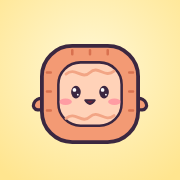
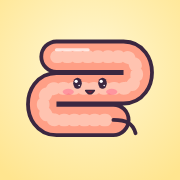
腸のキャラを、ぐねぐね曲がった管の形に描き直す
Claude-Session: https://claude.ai/code/session_015AQ5PSpXJyMFnwsZRYtWDB

Changed region(s): [[0.1389, 0.1944, 0.8611, 0.8056]]

diff --git a/tools/organ-icons.js b/tools/organ-icons.js
@@ -50,13 +50,14 @@ const ICONS = {
     `<path d="M172 150 C168 230 150 300 190 365 C232 432 352 440 398 368 C436 306 410 222 348 220 C298 218 282 255 260 226 C240 200 246 160 222 150 Z" fill="#ffc08c" stroke="${O}" stroke-width="${SW}" stroke-linejoin="round"/>` +
     `<path d="M196 200 C192 240 186 280 200 320" fill="none" stroke="#fff" stroke-width="12" stroke-linecap="round" opacity=".6"/>` +
     face(296, 320, 0.95) },
-  h: { name: "ちょう", bg: ["#fff8d6", "#ffe58f"], body: () =>
-    arm(98, 300, -30, "#f39a74") + arm(414, 300, 30, "#f39a74") +
-    `<rect x="104" y="116" width="304" height="304" rx="96" fill="#f39a74" stroke="${O}" stroke-width="${SW}"/>` +
-    `<g fill="none" stroke="#d9714f" stroke-width="8" stroke-linecap="round"><path d="M120 200 h12 M120 260 h12 M120 320 h12 M380 200 h12 M380 260 h12 M380 320 h12 M200 130 v12 M256 130 v12 M312 130 v12"/></g>` +
-    `<rect x="156" y="168" width="200" height="200" rx="70" fill="#ffd2b8" stroke="${O}" stroke-width="8"/>` +
-    `<path d="M180 205 C210 180 230 225 256 200 C282 175 302 220 332 196 M180 345 C210 320 230 365 256 340 C282 315 302 360 332 336" fill="none" stroke="#f2a585" stroke-width="9" stroke-linecap="round"/>` +
-    face(256, 262, 0.9) },
+  h: { name: "ちょう", bg: ["#fff8d6", "#ffe58f"], body: () => {
+    const d = "M150 150 H362 C418 150 418 250 362 250 H150 C94 250 94 350 150 350 H330";
+    return tube(d, "#ff9f86", 84) +
+      `<path d="${d}" fill="none" stroke="#ffc3b0" stroke-width="40" stroke-linecap="round" stroke-linejoin="round" stroke-dasharray="6 26"/>` +
+      `<path d="M330 350 C370 350 392 360 400 392" fill="none" stroke="${O}" stroke-width="${SW}" stroke-linecap="round"/>` +
+      `<path d="M150 128 H250" fill="none" stroke="#fff" stroke-width="10" stroke-linecap="round" opacity=".7"/>` +
+      face(256, 234, 0.8);
+  } },
   i: { name: "せっけっきゅう", bg: ["#e2f0ff", "#b6d6ff"], body: () =>
     `<ellipse cx="256" cy="270" rx="172" ry="160" fill="#e8394f" stroke="${O}" stroke-width="${SW}"/>` +
     `<ellipse cx="256" cy="275" rx="105" ry="92" fill="#c92740"/>` +
